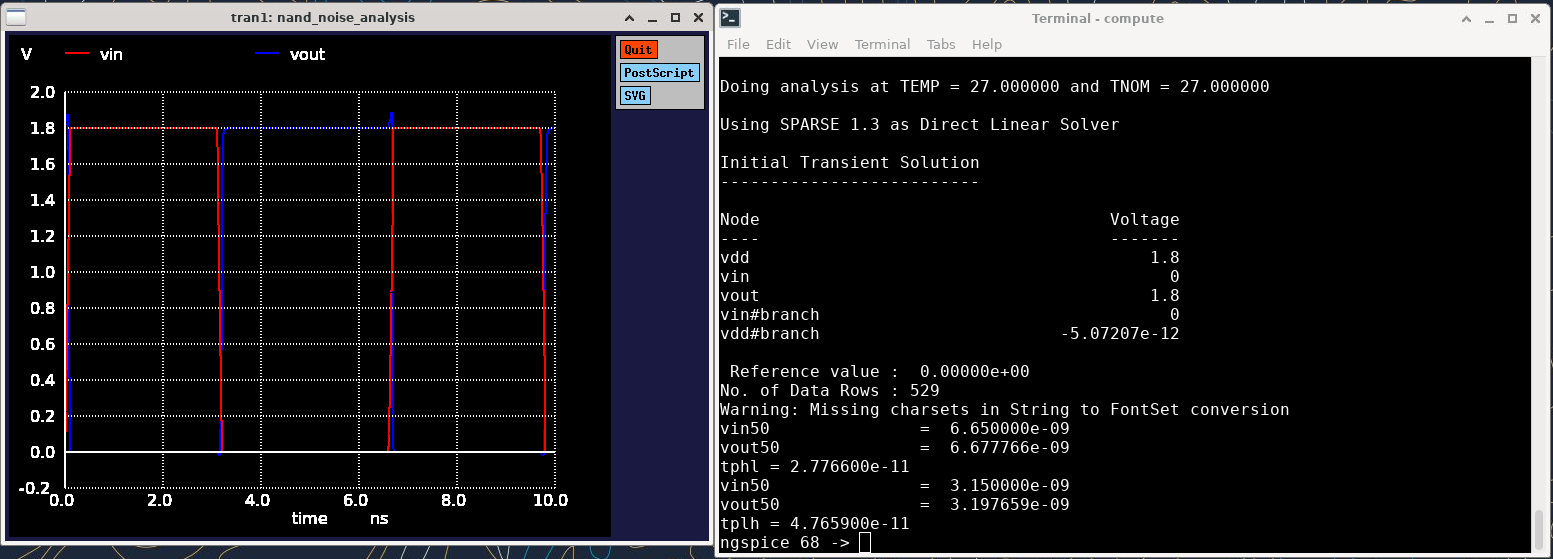
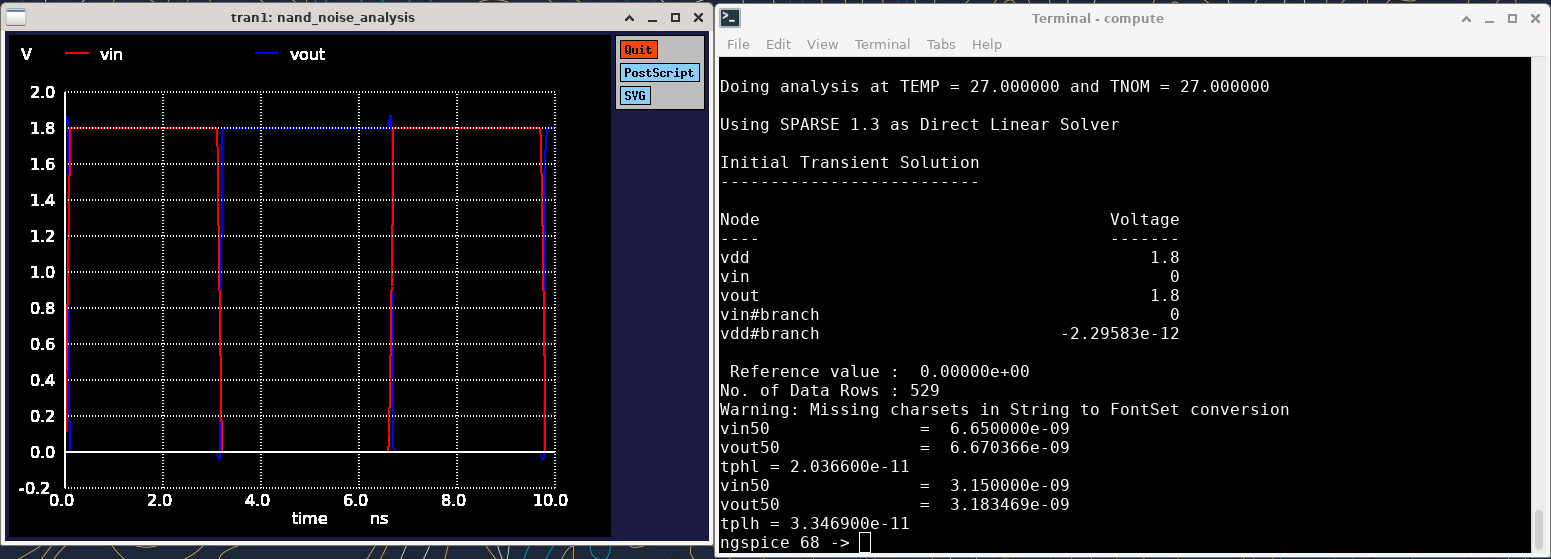
Updating delay results

diff --git a/2/ECE507_Lab2_Sowatzke.tex b/2/ECE507_Lab2_Sowatzke.tex
@@ -300,11 +300,11 @@
 		\hline
 		\texttt{a} & \texttt{b} & \texttt{tphl} & \texttt{a} & \texttt{b} & \texttt{tplh} \\
 		\hline	
-		$0 \rightarrow 1$ & $1$ & $28.574\ \text{ps}$ & $1 \rightarrow 0$ & $1$ & $44.343\ \text{ps}$\\
+		$0 \rightarrow 1$ & $1$ & $20.336\ \text{ps}$ & $1 \rightarrow 0$ & $1$ & $33.469\ \text{ps}$\\
 		\hline	
-		$1$ & $0 \rightarrow 1$ & $18.748\ \text{ps}$ & $1$ & $1 \rightarrow 0$ & $29.313\ \text{ps}$\\
+		$1$ & $0 \rightarrow 1$ & $27.766\ \text{ps}$ & $1$ & $1 \rightarrow 0$ & $47.659\ \text{ps}$\\
 		\hline	
-		$0 \rightarrow 1$ & $0 \rightarrow 1$ & $28.584\ \text{ps}$ & $1 \rightarrow 0$ & $1 \rightarrow 0$ & $21.234\ \text{ps}$\\
+		$0 \rightarrow 1$ & $0 \rightarrow 1$ & $29.263\ \text{ps}$ & $1 \rightarrow 0$ & $1 \rightarrow 0$ & $26.400\ \text{ps}$\\
 		\hline
 	\end{tabular}
 	\end{center}
